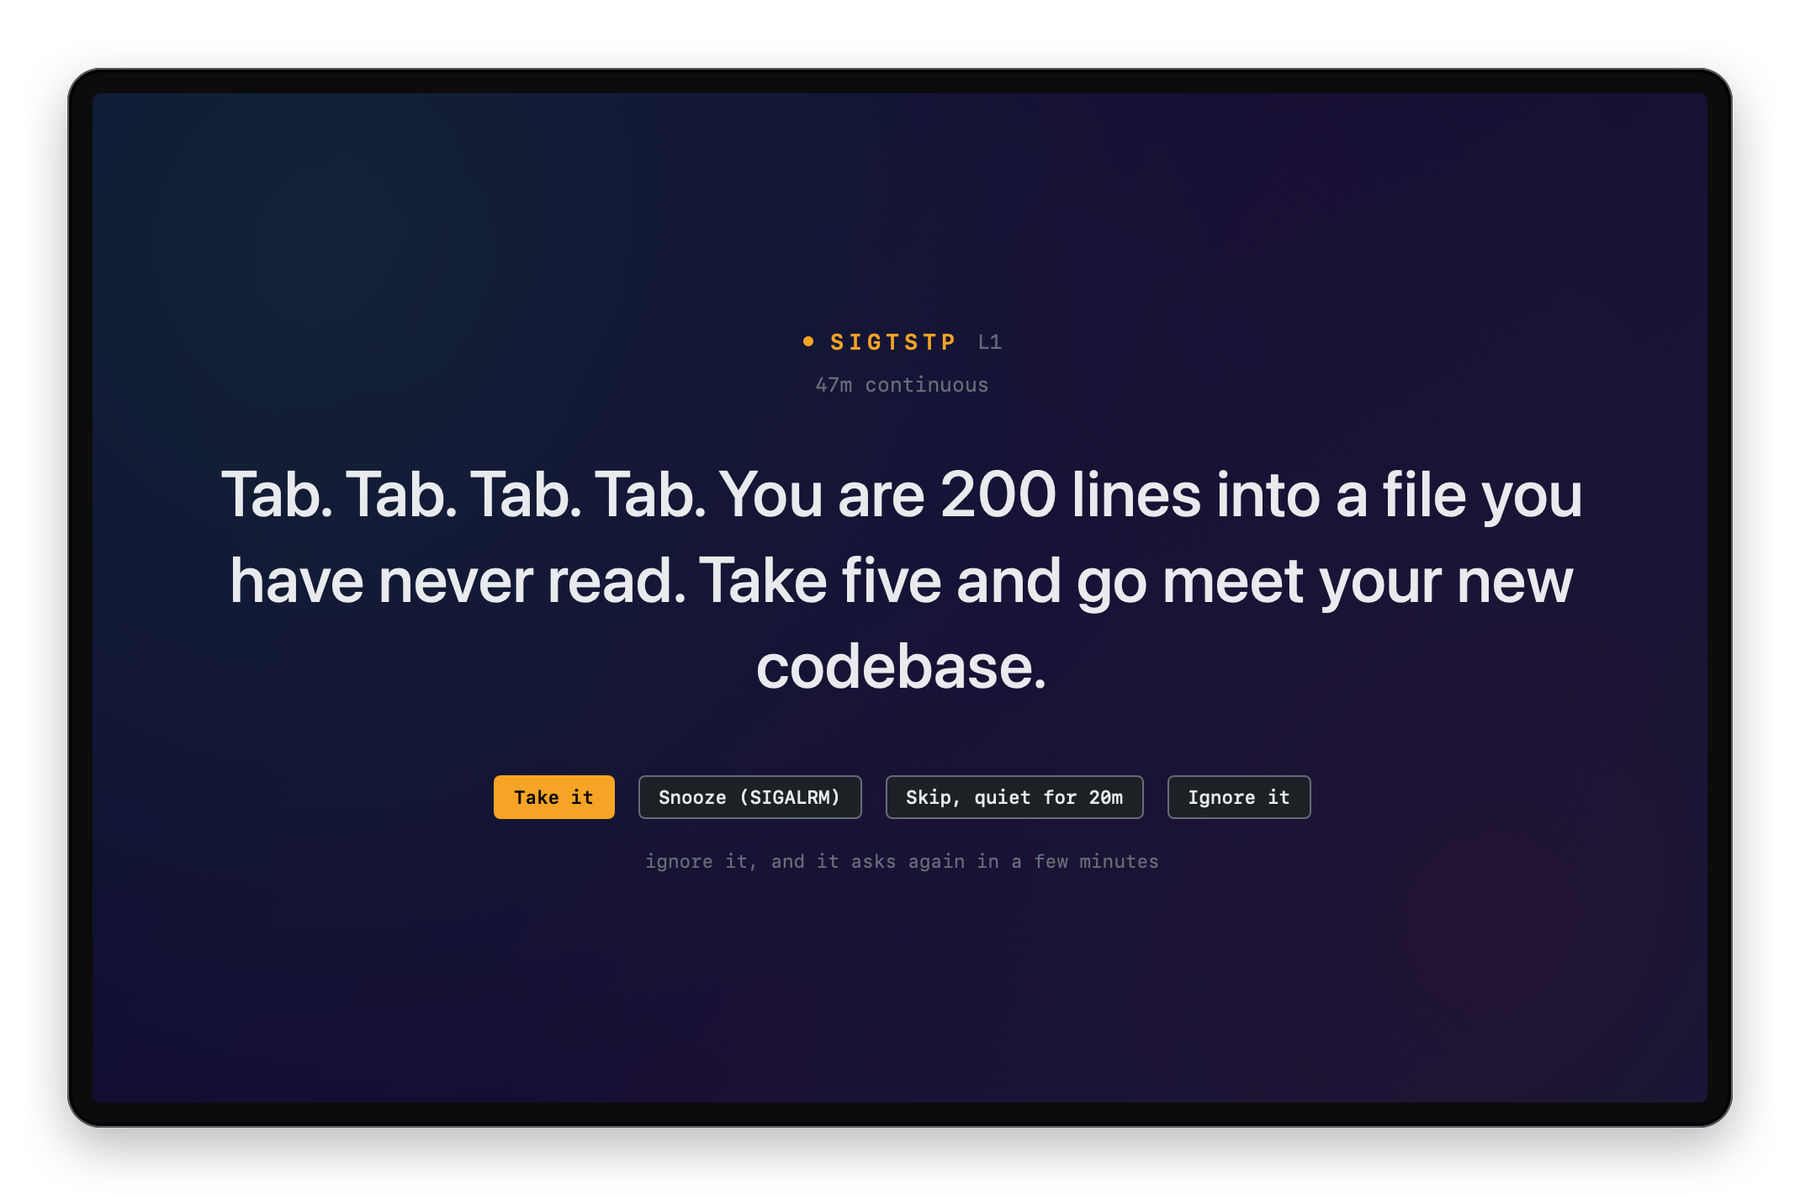
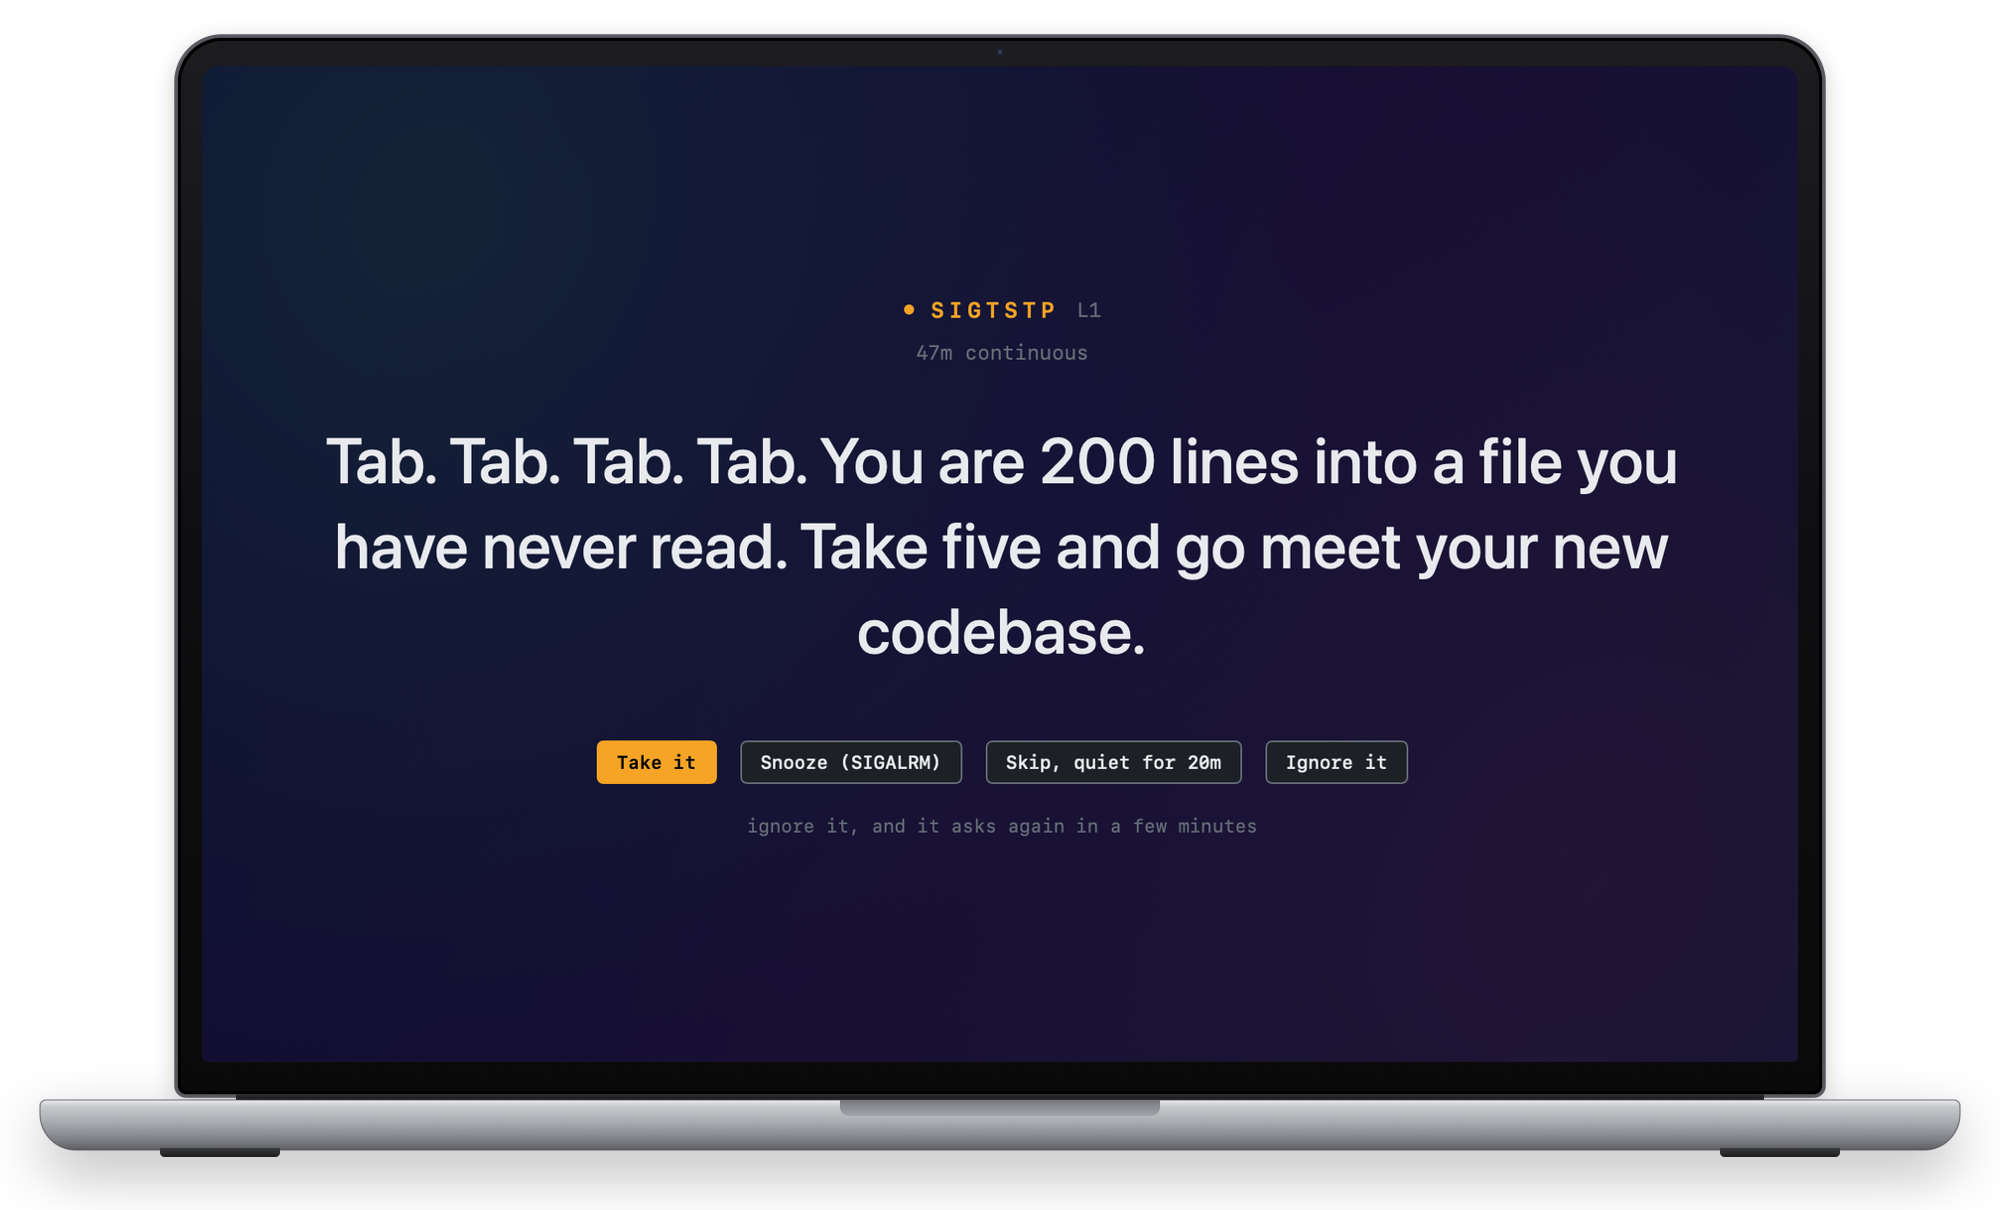
docs: show the break prompt on a MacBook in the README

Changed region(s): [[0.0, 0.0, 0.9956, 0.9598], [0.2489, 0.5883, 0.7156, 0.7431], [0.4356, 0.2477, 0.56, 0.3406]]

diff --git a/README.md b/README.md
@@ -16,7 +16,7 @@ macOS 14+ · Apple Silicon and Intel · Free and open source · [Website](https:
 [![421 tests](https://img.shields.io/badge/tests-421%20passing-3fb950?style=flat-square)](#build)
 [![GPL-3.0](https://img.shields.io/badge/license-GPL--3.0-blue?style=flat-square)](LICENSE)
 
-<img src="docs/images/prompt.png" width="100%" alt="A sigstop break prompt on a Mac screen: Tab. Tab. Tab. Tab. You are 200 lines into a file you have never read. Take five and go meet your new codebase.">
+<img src="docs/images/prompt.png" width="100%" alt="A sigstop break prompt on a MacBook screen: Tab. Tab. Tab. Tab. You are 200 lines into a file you have never read. Take five and go meet your new codebase.">
 
 </div>
 
